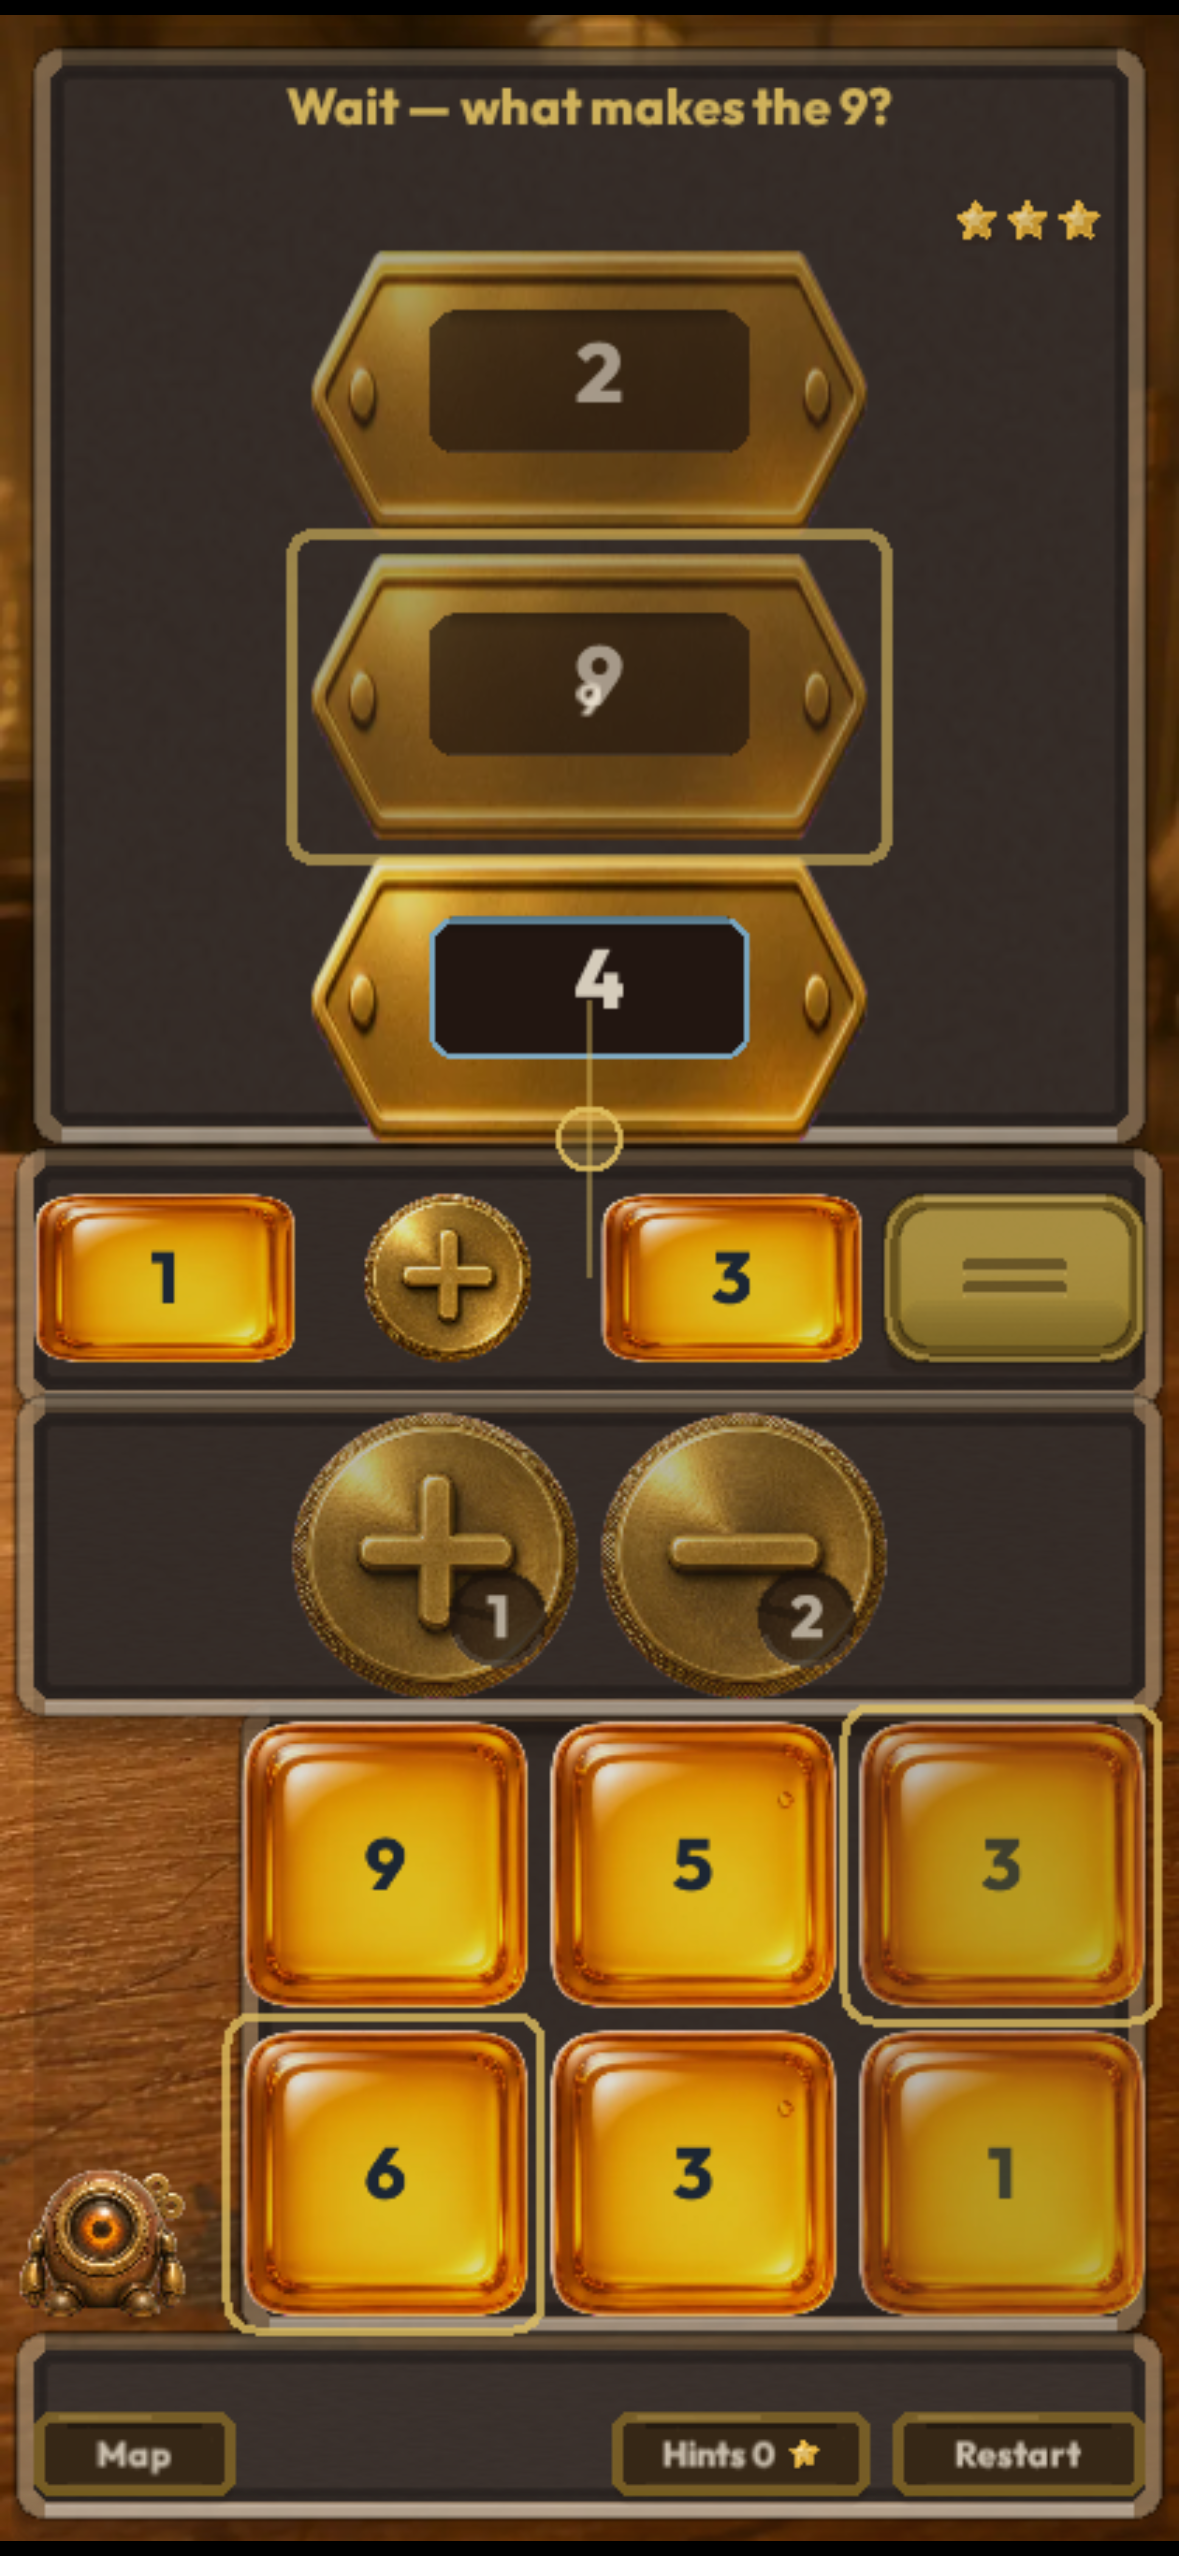
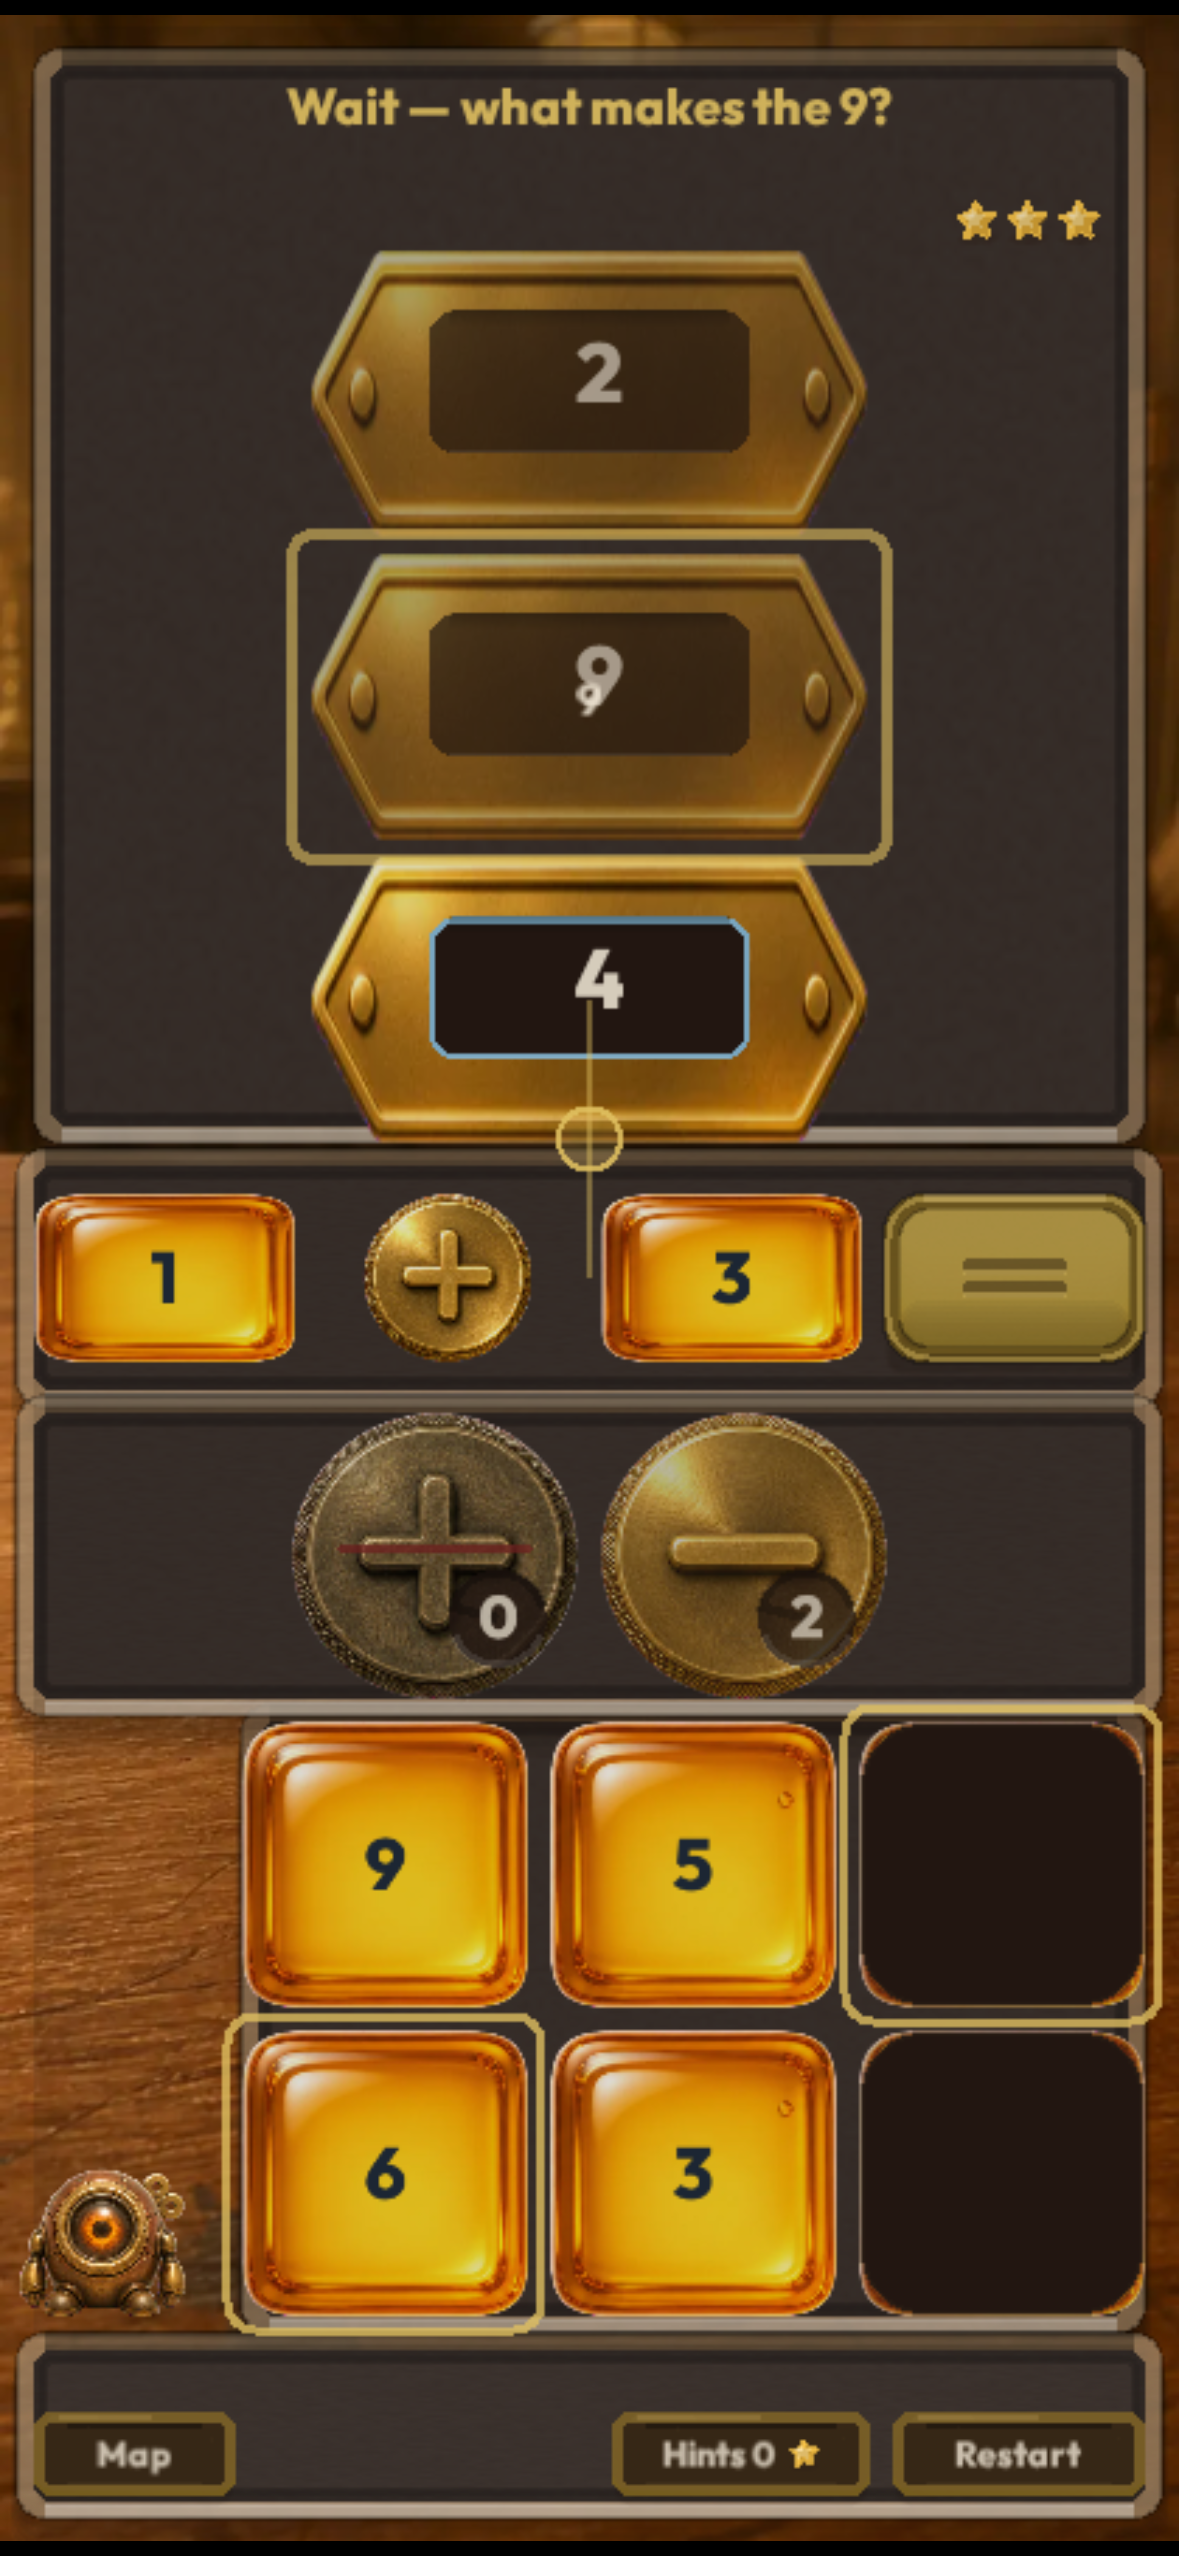
Fix scripted trap mid-frame material honesty
Keep the teaching equation visible while showing its consumed pool tiles and spent operator in the frozen review frame.

Changed region(s): [[0.7023, 0.6491, 0.9771, 0.9272], [0.2443, 0.5563, 0.4885, 0.68]]

diff --git a/src/renderer/renderer.ts b/src/renderer/renderer.ts
@@ -1159,6 +1159,38 @@ export class Renderer {
     return running;
   }
 
+  private drawScriptedTrapCommitHonesty(s: ViewState, board: Bands): void {
+    const beat = this.scriptedTrap;
+    if (!beat?.next.warning?.scripted) return;
+    const stagedIds = [s.slots.leftTileId, s.slots.rightTileId].filter((id): id is number => id !== null);
+    for (const id of stagedIds) {
+      const index = s.tiles.findIndex((tile) => tile.id === id);
+      if (index < 0) continue;
+      const r = poolSlot(index, board.pool, board.grid);
+      const cover = new Graphics().roundRect(r.x + 1, r.y + 1, r.width - 2, r.height - 2, Math.min(r.width, r.height) * 0.22).fill({ color: PALETTE.felt, alpha: 1 });
+      cover.eventMode = "none";
+      this.root.addChild(this.entry(cover, BOARD_BANDS.pool));
+      const hole = ghostSlot(r.width, r.height);
+      hole.position.set(r.x, r.y);
+      hole.eventMode = "none";
+      this.root.addChild(this.entry(hole, BOARD_BANDS.pool));
+    }
+    const op = s.slots.op;
+    if (op === null) return;
+    const available = [...BINARY.filter((candidate) => s.budget[candidate] !== undefined), ...UNARY.filter((candidate) => s.budget[candidate] !== undefined)];
+    const opIndex = available.indexOf(op);
+    if (opIndex < 0) return;
+    const r = operatorSlot(opIndex, available.length, board.operators, board.operatorGrid);
+    const size = Math.min(r.width, r.height);
+    const disc = operatorToken(size, LABEL[op] ?? op, { fill: PALETTE.operator, text: PALETTE.tokenInk, bevel: 0, elevation: 0 }, "unavailable", 0);
+    disc.alpha = 0.85;
+    disc.addChild(new Graphics().roundRect(size * 0.16, size * 0.46, size * 0.68, 3, 1.5).fill({ color: PALETTE.failed, alpha: 0.85 }));
+    disc.pivot.set(size / 2, size / 2);
+    disc.position.set(r.x + r.width / 2, r.y + size / 2);
+    disc.eventMode = "none";
+    this.root.addChild(this.entry(disc, BOARD_BANDS.operators));
+  }
+
   /** Draw the 1-04 teach-by-doing beat while the Director state stays pre-rewind. */
   private drawScriptedTrapBeat(s: ViewState, board: Bands): void {
     const beat = this.scriptedTrap;
@@ -1166,6 +1198,7 @@ export class Renderer {
     if (!beat || !warning?.scripted) return;
 
     const sample = sampleScriptedTrapBeat(beat.elapsedMs);
+    this.drawScriptedTrapCommitHonesty(s, board);
     const lane = board.lane;
     const equation = board.equation;
     const pool = board.pool;

diff --git a/docs/review/FTUE_104_PLANNING_TRAP_REVIEW.md b/docs/review/FTUE_104_PLANNING_TRAP_REVIEW.md
@@ -7,12 +7,18 @@ Evidence files:
 
 MD5:
 - 01: bcf86911a0d5c563abde7413fe517b6b
-- 02: 673728cdb9d8eb0872799590add14da8
+- 02: 328ed6ff4e525117f729a2414eb61b57
 - 03: 1738d52f01df445b2d961d7ce0ab3a32
 
-The three frames are byte-distinct; mid differs by the filled equation/focus veil/path/caption, and after differs by the settled warning panel and free Go Back action. Captured through /workspace/run-shot.sh with ?sprites=1.
+The three frames are byte-distinct; mid differs by the filled equation/focus veil/path/caption plus honest consumed 1/3 pool holes and a spent + dial, and after differs by the settled warning panel and free Go Back action. Captured through /workspace/run-shot.sh with ?sprites=1.
 
 Typecheck: green.
 Build: green.
 Full Vitest: green, 446 tests across 49 files.
 PE-03b and locked-plate meter hide nit intentionally excluded.
+
+## Scout REJECT fix — mid-frame honesty
+
+- The scripted trap hold keeps the filled 1 + 3 equation for teaching, while the renderer masks those source pool seats with consumed holes and redraws the staged `+` as spent/unavailable.
+- Recaptured `02-ftue-104-mid-commit.png`; no duplicate `1` or staged `3` remains on the pool grid, and the pool `+` dial is visibly spent.
+- Typecheck, build, and full Vitest pass on the fix.
